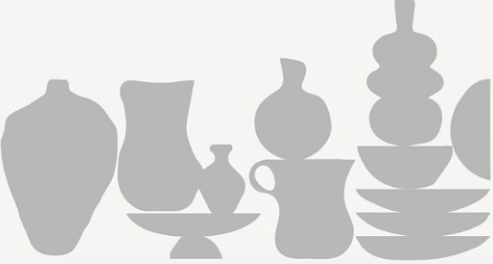
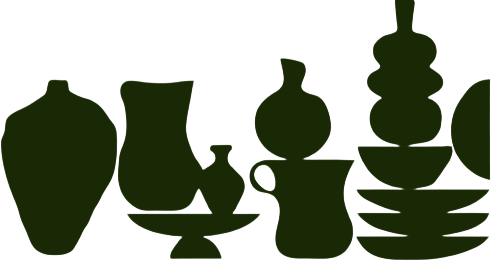
fix

diff --git a/orders.html b/orders.html
@@ -20,7 +20,7 @@
       <li><a class="main-menu__link main-menu__link--folder" href="">Мастер-классы</a></li>
       <li><a class="main-menu__link" href="">Сертификаты</a></li>
       <li><a class="main-menu__link" href="catalog.html">Каталог</a></li>
-      <li><a class="main-menu__link" href="">На заказ</a></li>
+      <li><a class="main-menu__link main-menu__link-active" href="">На заказ</a></li>
       <li><a class="main-menu__link" href="">О нас</a></li>
       <li><a class="main-menu__link" href="">Контакты</a></li>
     </ul>
@@ -41,23 +41,81 @@
     </ul>
     <section class="order__description">
         <h1 class="orders__title">Керамика на заказ</h1>
-        <p class="orders__paragraph">Мы изготавливаем керамику по индивидуальным эскизам: от одного изделия до серий для ресторанов, кафе и брендов.
-Каждое изделие создаётся вручную в нашей мастерской с вниманием к форме, цвету и деталям — чтобы керамика была не просто посудой, а частью атмосферы.</p>
+        <article>
+          <p class="orders__paragraph">Мы изготавливаем керамику по индивидуальным эскизам: от одного изделия до серий для ресторанов, кафе и брендов.</p>
+
+        <p class="orders__paragraph">Каждое изделие создаётся вручную в нашей мастерской с вниманием к форме, цвету и деталям — чтобы керамика была не просто посудой, а частью атмосферы.</p>  
+        </article>
+        
     </section>
     <section class="order__personal">
       <img src="img/unique product.jpg" alt="?">
-      <div>
-        <h2 class="personal__heading">Персональные заказы</h2>
+      <div class="personal__description">
+        <h2 class="personal__heading">Персональные <br>заказы</h2>
+        <div class="tags">
+            <div class="tags__item">
+              для подарка
+            </div>
+            <div class="tags__item tags__item--border">
+              для дома
+            </div>
+            <div class="tags__item">
+              на особый случай
+            </div>
+        </div>
+        <p class="description__paragraph">Помогаем воплотить любую вашу идею в реальность или сделать уникальный подарок для друзей и близких. Создадим изделие по вашим референсам или поможем создать эскиз с нуля.</p>
+        <div class="order__parameters">
+           <p class="parameter__headers">Минимальный тираж:</p> 
+          <p class="orders__paragraph">от 1 штуки</p>
+        </div>
+        <div class="order__parameters">
+           <p class="parameter__headers">Срок изготовления:</p> 
+          <p class="orders__paragraph">3–5 недель</p>
+        </div>
+        <div class="order__parameters">
+           <p class="parameter__headers">Стоимость заказа:</p> 
+          <p class="orders__paragraph">рассчитывается индивидуально <br> (зависит от размера и сложности)</p>
+        </div>
+        <a class="order__btn btn" href="#">Оставить заявку</a>
       </div>
+       
     </section>
     <section class="order__commercial">
       <div>
-        <h2 class="personal__heading">Коммерческие заказы</h2>
+        <h2 class="personal__heading">Коммерческие <br> заказы</h2>
+        <div class="tags">
+            <div class="tags__item">
+              для кафе
+            </div>
+            <div class="tags__item tags__item--border">
+              для ресторанов
+            </div>
+            <div class="tags__item">
+              для брендов
+            </div>
+        </div>
+        <p class="description__paragraph">Изготавливаем керамику, которая подчёркивает концепцию и атмосферу заведения. Совместно разработаем индивидуальный дизайн изделий, нанесём ваш логотип и изготовим тестовый образец</p>
+        <div class="order__parameters">
+           <p class="parameter__headers">Минимальный тираж:</p> 
+          <p class="orders__paragraph">от 10 изделий</p>
+        </div>
+        <div class="order__parameters">
+           <p class="parameter__headers">Срок изготовления:</p> 
+          <p class="orders__paragraph">от 1 месяца <br>(зависит от объёма и сложности)</p>
+        </div>
+        <div class="order__parameters">
+           <p class="parameter__headers">Стоимость заказа:</p> 
+          <p class="orders__paragraph">рассчитывается индивидуально <br> (зависит от размера и сложности)</p>
+        </div>
+        <a class="order__btn btn" href="#">Оставить заявку</a>
       </div>
+       
+      
+      </div>  
       <img src="img/restaurant.jpg" alt="?">
     </section>
     <section class="order__partners">
-        <h2 class="personal__heading">С нами сотрудничают</h2>
+        <h2 class="personal__heading">С нами <br> сотрудничают</h2>
         <div class="order__logo">
           <img src="img/gagarin.jpg" alt="">
           <img src="img/dome 1791.jpg" alt="">
@@ -68,5 +126,41 @@
         </div>
     </section>
   </main>
+  <footer class="footer">
+    <div class="footer-wrapper container">
+
+      <div class="footer-address">
+        <p>Ежедневно с 11:00 до 19:00</p>
+        <address class="contacts-text">
+          Вологда, Торговая площадь, 1
+          <a href="tel:+79005347137">+7 900 534-71-37</a>
+        </address>
+        <img class="contacts-image contacts-image-bg" src="img/footer-bg.png" width="493" height="264" alt="Фоновая картинка">
+
+      </div>
+
+      <ul class="menu-secondary clear-ul">
+        <li><a class="menu-secondary-item" href="#">О мастер-классах</a></li>
+        <li><a class="menu-secondary-item" href="#">Сертификаты</a></li>
+        <li><a class="menu-secondary-item " href="catalog.html">Каталог</a></li>
+        <li><a class="menu-secondary-item menu-secondary-item-active" href="#">На заказ</a></li>
+        <li><a class="menu-secondary-item " href="#">О нас</a></li>
+        <li><a class="menu-secondary-item" href="#">Контакты</a></li>
+      </ul>
+
+      <div class="footer-right">
+        <h3 class="text-widget text-widget-copyright">
+          Мы в соцсетях
+        </h3>
+        <ul class="menu-social clear-ul">
+          <li><a class="menu-social-link menu-social-link-tg" href="#" aria-label="Telegram">Telegram</a></li>
+          <li><a class="menu-social-link menu-social-link-vk" href="#" aria-label="ВКонтакте">ВКонтакте</a></li>
+        </ul>
+        <img class="contacts-image contacts-image-logo" src="img/footer-logo.svg" width="369" height="153" alt="Логотип">
+
+      </div>
+
+    </div>
+  </footer>
 </body>
 </html>

diff --git a/css/orders.css b/css/orders.css
@@ -3,7 +3,7 @@
   font-family: "Prosto One", sans-serif;
   font-weight: 400;
   font-size: clamp(40px, 6vw, 78px);
-  line-height: 140%;
+  line-height: 95px;
   color: #41572A;
   width: 500px;
 }
@@ -13,33 +13,128 @@ font-family: "Prosto One", sans-serif;
   font-size: clamp(40px, 6vw, 42px);
   line-height: 140%;
   color: var(--secondary);
-  
+  margin-right: auto;
+  margin-bottom: 46px;
 }
 
 .orders__paragraph {
-  font-family: 'Railway', Arial, Helvetica, sans-serif;
+  font-family: 'Raleway', Arial, Helvetica, sans-serif;
   font-weight: 400;
   font-size: 14px;
   color: var(--text-secondary);
+  margin-bottom: 8px;
   width: 396px;
+
+  
 }
 .order__description{
     display: flex;
     flex-direction: row;
     align-items: center;
+    margin-bottom: 100px;
 }
 .order__personal{
     display: flex;
     flex-direction: row;
+    margin-bottom: 100px;
 }
 .order__commercial{
     display: flex;
-    flex-direction: row;
+    justify-content: space-between;
+    margin-bottom: 100px;
 }
 .order__partners{
-    display: flex;
-    flex-direction: row; 
+   display: flex;
+   margin-bottom: 100px;
+    
 }
 .order__logo{
-    width: 604px;
+    display: grid;
+    grid-template-columns: 1fr 1fr 1fr;
+    grid-template-rows: auto auto;
+    gap: 20px;
 }
+.personal__description{
+    margin-left: 124px;
+}
+.tags__item{
+    font-family: 'Prosto One', Arial, Helvetica, sans-serif;
+	font-weight: 400;
+	font-size: 14px;
+    color: var(--secondary);
+    padding-right: 16px;
+    padding-bottom: 4px;
+    padding-top: 4px;
+}
+.tags{
+  display: flex;
+  margin-bottom: 46px;
+}
+.tags__item--border{
+    border-inline: 1px solid var(--secondary);
+    padding: 4px 16px;
+    margin-right: 16px;
+}
+.order__btn{
+    width: 292px;
+    margin-top: 130px;
+}
+.order__parameters{
+    display: flex;
+    gap: 16px;
+    margin-bottom: 16px;
+}
+.description__paragraph{
+    font-family: 'Raleway', Arial, Helvetica, sans-serif;
+  font-weight: 400;
+  font-size: 14px;
+  color: var(--text-secondary);
+  margin-bottom: 46px;
+  width: 396px;
+}
+.parameter__headers{
+    font-family: 'Raleway', Arial, Helvetica, sans-serif;
+  font-weight: 500;
+  font-size: 16px;
+  color: #999999;
+  width: 167px;
+}
+@media (max-width: 1279px){
+.order__description{
+    flex-direction: column;
+    align-items: flex-start;
+    gap: 24px;
+}
+.orders__title{
+    width: 328px;
+    font-size: clamp(40px, 6vw, 46px);
+    line-height: 50px;
+}
+.orders__paragraph{
+    width: 328px;
+}
+.order__personal {
+    flex-direction: column;
+}
+.order__commercial{
+    flex-direction: column-reverse;
+}
+.order__partners{
+    flex-direction: column;
+}
+.personal__description{
+    margin-left: 0;
+}
+.order__logo{
+    grid-template-rows: 1fr 1fr 1fr;
+    grid-template-columns: auto auto;
+    gap: 10px;
+}
+.order__logo img{
+    width: 160px;
+}
+.description__paragraph{
+    width: 100%;
+}
+}
+

diff --git a/css/styles.css b/css/styles.css
@@ -71,16 +71,14 @@ ol, ul {
 	display: flex;
 	justify-content: center;
 	align-items: center;
-	padding: 4px 8px;
+	padding: 10px 8px;
 
 	font-family: 'Raleway', Arial, Helvetica, sans-serif;
 	text-align: center;
 	color: var(--text-invert);
 	background-color: var(--primary);
 	text-decoration: none;
-
 	border-width: 1.5px;
-	border-color: var(--secondary);
 	border-style: solid;
 }
 

diff --git a/css/main-menu.css b/css/main-menu.css
@@ -31,3 +31,6 @@
 	background-repeat: no-repeat;
 	background-position: center right;
 }
+.main-menu__link-active {
+  color: #41572A;
+}

diff --git a/css/master-classes.css b/css/master-classes.css
@@ -73,3 +73,4 @@
 .master-classes__item-link {
   align-self: flex-end;
 }
+
